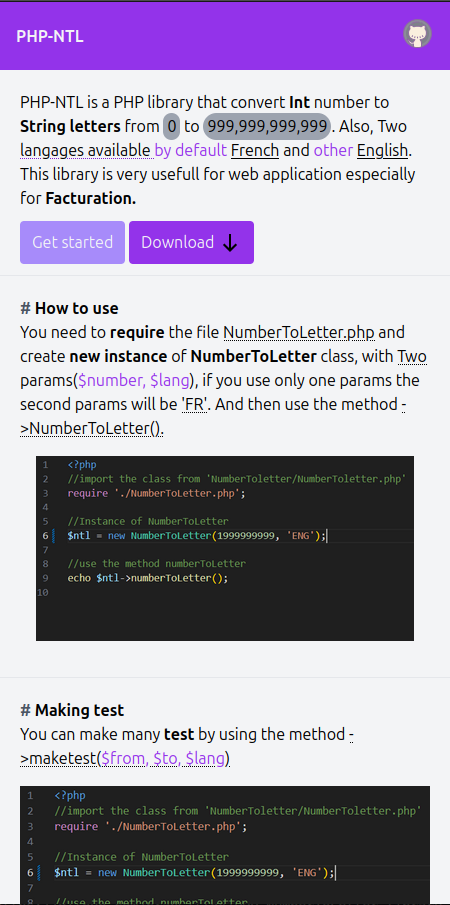
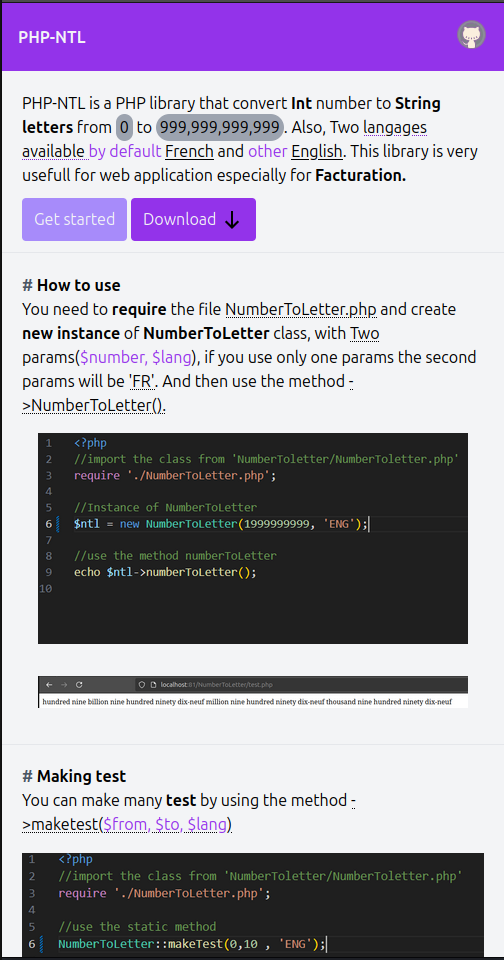
feat: adding result image after test'

diff --git a/index.html b/index.html
@@ -33,6 +33,11 @@
                 params(<span class="text-purple-600">$number, $lang</span>), if you use only one params the second params will be <span class="underline decoration-dotted">'FR'</span>. And then use the method <span class="underline decoration-dotted">->NumberToLetter().</span></p>
                 <div class="p-4 flex justify-center">
                     <img src="./assets/img/code-1.PNG" alt="">
+                 
+                </div>
+                <div class="p-4 flex justify-center">
+                    <img src="./assets/img/result-1.png" alt="">
+                 
                 </div>
           </section>
           <hr>
@@ -41,7 +46,12 @@
                 <h2><span class="text-gray-600 font-bold">#</span> <b>Making test</b></h2>
                 <p>You can make many <b>test</b> by using the method <span class="underline decoration-dotted">->maketest(<span class="text-purple-600">$from, $to, $lang</span>)</span> </p>
                 <div class="mt-4 flex justify-center">
-                    <img src="./assets/img/code-1.PNG" alt="">
+                    <img src="./assets/img/code-2.PNG" alt="">
+                   
+                </div>
+                <div class="mt-4 flex justify-center">
+                    <img src="./assets/img/result-2.png" alt="">
+                   
                 </div>
           </section>
           <!-- Contributing section -->
